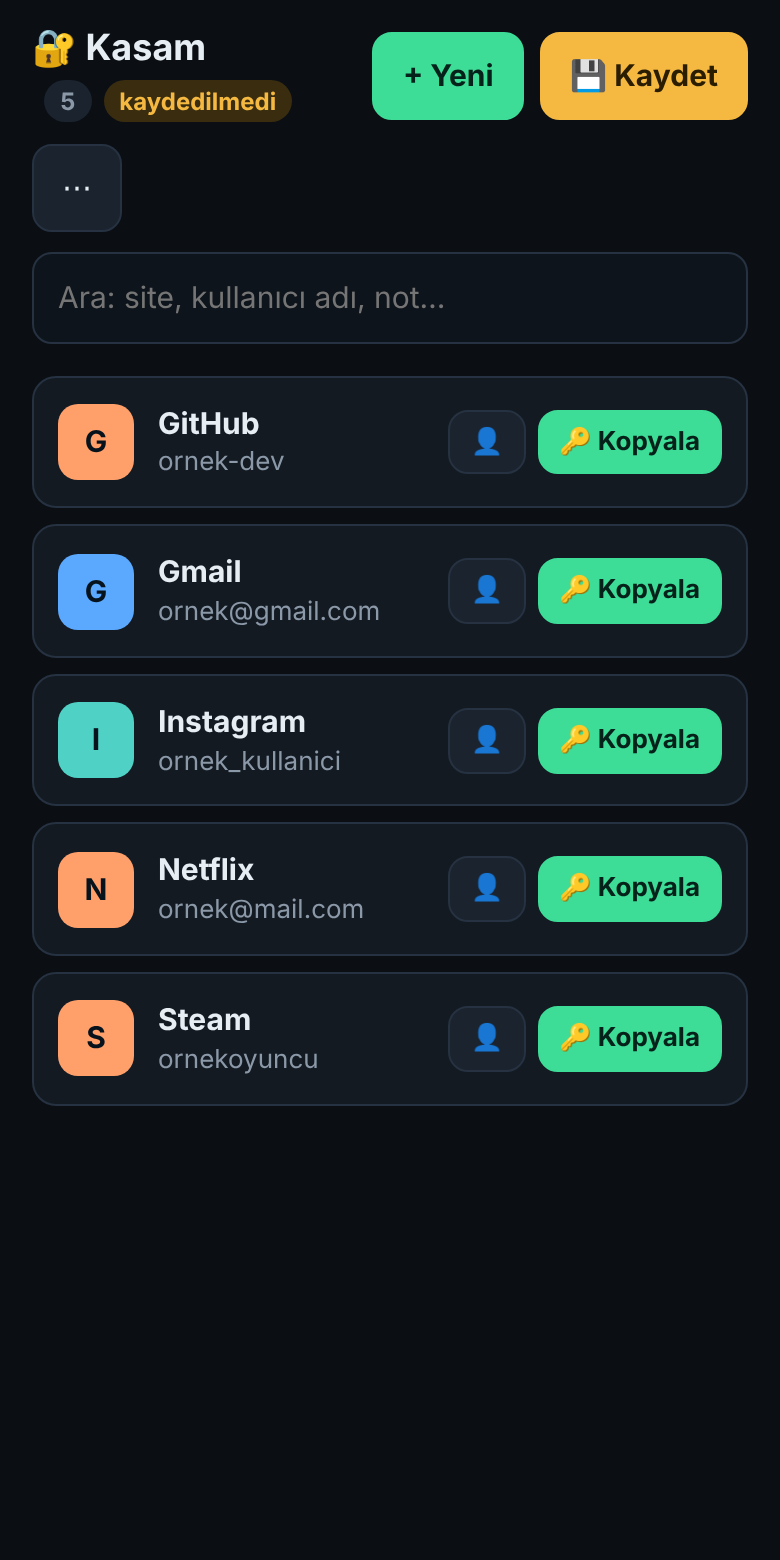
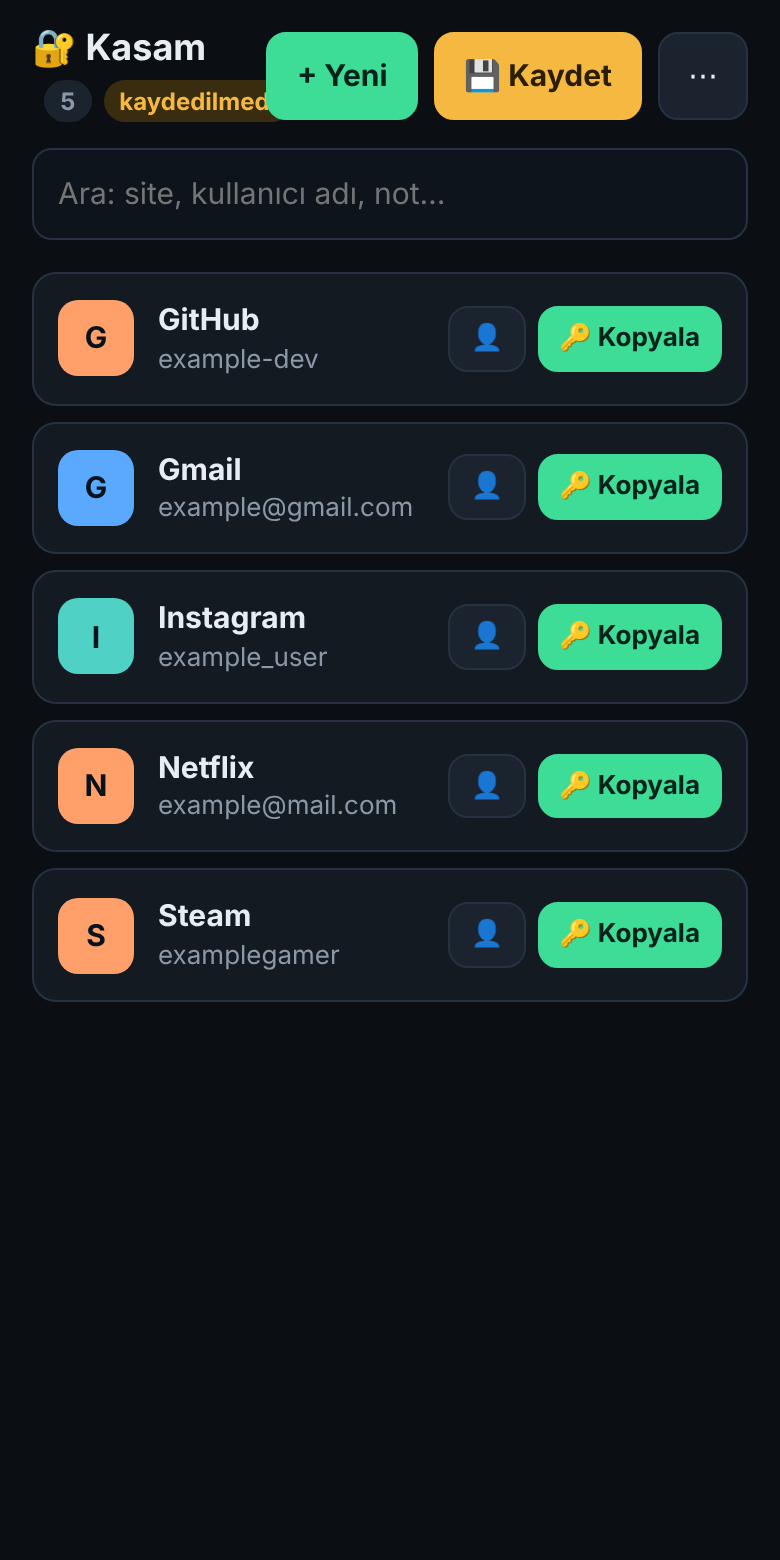
İngilizce arayüz ve İngilizce README eklendi
- 🌐 butonuyla Türkçe / İngilizce dil seçimi (tarayıcı diline göre otomatik)
- README.en.md ve İngilizce ekran görüntüleri

Claude-Session: https://claude.ai/code/session_01RupFFbVWnVjNTGQY59fm1t

diff --git a/index.html b/index.html
@@ -60,7 +60,7 @@ details summary{cursor:pointer;color:var(--muted);font-size:13px;margin-top:12px
 /* Kasa ekranı */
 header.top{position:sticky;top:env(safe-area-inset-top, 0px);z-index:5;background:var(--bg);padding:12px 0 10px}
 .topbar{display:flex;align-items:center;gap:8px;flex-wrap:wrap}
-.topbar h2{font-size:18px;margin:0;flex:1;min-width:120px}
+.topbar h2{font-size:18px;margin:0;flex:1;min-width:0}
 .badge{font-size:12px;padding:3px 8px;border-radius:99px;background:var(--panel2);color:var(--muted);margin-left:6px;vertical-align:middle}
 .badge.dirty{background:#3a2d0f;color:var(--warn)}
 #saveBtn.dirty{background:var(--warn);color:#2a1d00;border-color:var(--warn);font-weight:650}
@@ -73,6 +73,7 @@ header.top{position:sticky;top:env(safe-area-inset-top, 0px);z-index:5;backgroun
 .meta span{display:block;color:var(--muted);font-size:13px;white-space:nowrap;overflow:hidden;text-overflow:ellipsis}
 .acts{display:flex;gap:6px;flex:none}
 .empty{text-align:center;color:var(--muted);padding:40px 10px}
+.langBtn{white-space:nowrap;flex:none}
 .menu{position:relative}
 .menu .dd{position:absolute;right:0;top:calc(100% + 6px);background:var(--panel);border:1px solid var(--line);border-radius:12px;padding:6px;min-width:230px;box-shadow:0 10px 30px #0008;z-index:10}
 .menu .dd button{display:block;width:100%;text-align:left;border:0;background:transparent;padding:10px 12px}
@@ -101,7 +102,7 @@ header.top{position:sticky;top:env(safe-area-inset-top, 0px);z-index:5;backgroun
 
   <!-- ============ KİLİT EKRANI ============ -->
   <section id="lock" class="card">
-    <div class="logo"><div class="ic">🔐</div><div><h1>Şifre Kasası</h1><div class="muted small">AES-256 · cihazında şifrelenir</div></div></div>
+    <div class="logo"><div class="ic">🔐</div><div><h1>Şifre Kasası</h1><div class="muted small">AES-256 · cihazında şifrelenir</div></div><button class="small ghost langBtn" style="margin-left:auto">🌐 English</button></div>
 
     <div class="tabs">
       <button id="tabOpen" class="on">Kasayı aç</button>
@@ -127,7 +128,7 @@ header.top{position:sticky;top:env(safe-area-inset-top, 0px);z-index:5;backgroun
       <div class="strength"><i id="newStr"></i></div>
       <label>Ana şifre (tekrar)</label>
       <input id="newPw2" type="password" autocomplete="new-password">
-      <div class="notice">⚠ Ana şifreni unutursan kasayı açmanın <b>hiçbir yolu yoktur</b>. Kâğıda yazıp güvenli bir yerde sakla.</div>
+      <div class="notice">⚠ Ana şifreni unutursan kasayı açmanın hiçbir yolu yoktur. Kâğıda yazıp güvenli bir yerde sakla.</div>
       <button id="createBtn" class="primary full">Kasayı oluştur</button>
     </div>
 
@@ -152,6 +153,7 @@ header.top{position:sticky;top:env(safe-area-inset-top, 0px);z-index:5;backgroun
             <button data-act="csv">📥 CSV içe aktar (Chrome vb.)</button>
             <button data-act="copyblob">📋 Şifreli metni kopyala</button>
             <button data-act="chpw">🔑 Ana şifreyi değiştir</button>
+            <button class="langBtn">🌐 English</button>
             <button data-act="lock">🔒 Kilitle</button>
           </div>
         </div>
@@ -345,8 +347,8 @@ function render(){
   $('#list').innerHTML=items.map(e=>{
     const t=e.title||e.url||'(başlıksız)';
     return `<div class="item" data-id="${esc(e.id)}">
-      <div class="av" style="background:${colorFor(t)}">${esc(t.trim()[0]?.toLocaleUpperCase('tr')||'?')}</div>
-      <div class="meta" data-act="edit"><b>${esc(t)}</b><span>${esc(e.user||e.url||'')}</span></div>
+      <div class="av" data-raw style="background:${colorFor(t)}">${esc(t.trim()[0]?.toLocaleUpperCase('tr')||'?')}</div>
+      <div class="meta" data-act="edit" data-raw><b>${esc(t)}</b><span>${esc(e.user||e.url||'')}</span></div>
       <div class="acts">
         ${e.user?'<button class="small" data-act="cu" title="Kullanıcı adını kopyala">👤</button>':''}
         <button class="small primary" data-act="cp" title="Şifreyi kopyala">🔑 Kopyala</button>
@@ -469,6 +471,87 @@ function resetTimer(){ clearTimeout(idleT); if(S.key) idleT=setTimeout(()=>lock(
 addEventListener('beforeunload',e=>{ if(S.dirty||S.pending){ e.preventDefault(); e.returnValue=''; } });
 
 if(!window.crypto?.subtle){ $('#lockErr').textContent='Bu tarayıcı güvenli şifrelemeyi desteklemiyor. Sayfayı https adresinden ya da güncel Chrome/Safari ile aç.'; }
+
+/* ---------- dil (TR / EN) ---------- */
+const I18N = [
+  ['Şifre Kasası','Password Vault'],
+  ['AES-256 · cihazında şifrelenir','AES-256 · encrypted on your device'],
+  ['Kasayı aç','Open vault'],['Yeni kasa','New vault'],
+  ['Kasa dosyası','Vault file'],['📁 Dosya seç (kasa.json)','📁 Choose file (kasa.json)'],
+  ['Dosya yerine şifreli metni yapıştır','Paste encrypted text instead of a file'],
+  ['Ana şifre','Master password'],['Ana şifren','Your master password'],['Kilidi aç','Unlock'],
+  ['Ana şifre belirle','Set a master password'],['En az 10 karakter, uzun bir cümle olabilir','At least 10 characters, a long sentence works well'],
+  ['Ana şifre (tekrar)','Master password (again)'],
+  ['⚠ Ana şifreni unutursan kasayı açmanın hiçbir yolu yoktur. Kâğıda yazıp güvenli bir yerde sakla.','⚠ If you forget your master password, there is no way to open the vault. Write it down and keep it somewhere safe.'],
+  ['Kasayı oluştur','Create vault'],
+  ['Kasa kaydedilmemiş değişikliklerle kilitlendi. Değişiklikler şifreli olarak bekliyor.','The vault was locked with unsaved changes. They are kept encrypted for now.'],
+  ['Şifreli dosyayı indir','Download encrypted file'],['Yok say','Discard'],
+  ['🔐 Kasam','🔐 My vault'],['kaydedilmedi','unsaved'],['+ Yeni','+ New'],['💾 Kaydet','💾 Save'],
+  ['📥 CSV içe aktar (Chrome vb.)','📥 Import CSV (Chrome etc.)'],['📋 Şifreli metni kopyala','📋 Copy encrypted text'],
+  ['🔑 Ana şifreyi değiştir','🔑 Change master password'],['🔒 Kilitle','🔒 Lock'],
+  ['Ara: site, kullanıcı adı, not…','Search: site, username, note…'],
+  ['Yeni kayıt','New entry'],['Kaydı düzenle','Edit entry'],['Başlık','Title'],['ör. Gmail, Instagram','e.g. Gmail, Instagram'],
+  ['Web adresi','Website'],['ör. instagram.com','e.g. instagram.com'],['Kullanıcı adı / e-posta','Username / email'],
+  ['Kopyala','Copy'],['Şifre','Password'],['Uzunluk','Length'],['Semboller','Symbols'],['🎲 Üret','🎲 Generate'],
+  ['Not','Note'],['Güvenlik soruları, PIN, kurtarma kodları…','Security questions, PIN, recovery codes…'],
+  ['Sil','Delete'],['Vazgeç','Cancel'],['Tamam','Done'],
+  ['Ana şifreyi değiştir','Change master password'],['Yeni ana şifre','New master password'],['Tekrar','Again'],['Değiştir','Change'],
+  ['Emin misin?','Are you sure?'],['Evet','Yes'],
+  ['Bu bir kasa dosyası değil.','This is not a vault file.'],['Ana şifre yanlış ya da dosya bozuk.','Wrong master password or damaged file.'],
+  ['Kopyalandı · 30 sn sonra pano temizlenecek','Copied · clipboard clears in 30 s'],
+  ['Önce kasa dosyasını seç.','Choose the vault file first.'],['Ana şifreyi gir.','Enter the master password.'],
+  ['Ana şifre en az 10 karakter olmalı.','The master password must be at least 10 characters.'],
+  ['İki şifre aynı değil.','The two passwords do not match.'],['En az 10 karakter olmalı.','Must be at least 10 characters.'],
+  ['Kasa oluşturuldu. Kayıt ekleyip 💾 Kaydet’e bas.','Vault created. Add entries, then press 💾 Save.'],
+  ['İşlem yapılmadığı için kasa kilitlendi.','The vault was locked after a period of inactivity.'],
+  ['Açılıyor…','Opening…'],['Oluşturuluyor…','Creating…'],['Değiştiriliyor…','Changing…'],
+  ['Kaydedilmemiş değişiklikler silinsin mi?','Discard unsaved changes?'],
+  ['Eşleşen kayıt yok.','No matching entries.'],['Kasa boş.','The vault is empty.'],
+  ['“+ Yeni” ile ilk şifreni ekle ya da ⋯ menüsünden CSV içe aktar.','Add your first password with “+ New” or import a CSV from the ⋯ menu.'],
+  ['(başlıksız)','(untitled)'],['Kullanıcı adını kopyala','Copy username'],['Şifreyi kopyala','Copy password'],['🔑 Kopyala','🔑 Copy'],
+  ['Bir başlık ya da web adresi gir.','Enter a title or website.'],
+  ['Kaydedildi · dosyaya yazmak için 💾 Kaydet','Saved · press 💾 Save to write the file'],
+  ['Kaydetme iptal edildi.','Save cancelled.'],['Dosya kaydedilemedi. ⋯ menüsünden şifreli metni kopyala.','Could not save the file. Copy the encrypted text from the ⋯ menu.'],
+  ['Şifreli metin kopyalandı (ana şifre olmadan okunamaz).','Encrypted text copied (unreadable without the master password).'],
+  ['Kopyalanamadı.','Could not copy.'],
+  ['Ana şifre değişti. Şimdi 💾 Kaydet ve Drive’a yükle.','Master password changed. Now press 💾 Save and upload to Drive.'],
+  ['CSV boş görünüyor.','The CSV looks empty.'],['CSV’de “password” sütunu bulunamadı.','No “password” column found in the CSV.'],
+  ['Bu tarayıcı güvenli şifrelemeyi desteklemiyor. Sayfayı https adresinden ya da güncel Chrome/Safari ile aç.','This browser does not support secure encryption. Open the page over https or in an up-to-date Chrome/Safari.'],
+];
+const I18N_RX = [
+  [/^“(.*)” silinsin mi\?$/, '“$1” will be deleted. Continue?', /^“(.*)” will be deleted\. Continue\?$/, '“$1” silinsin mi?'],
+  [/^“(.*)” kaydedildi\. Drive’daki eski dosyanın yerine yükle\.$/, '“$1” saved. Upload it over the old file on Drive.', /^“(.*)” saved\. Upload it over the old file on Drive\.$/, '“$1” kaydedildi. Drive’daki eski dosyanın yerine yükle.'],
+  [/^“(.*)” indirildi\. Drive’daki eski dosyanın yerine yükle\.$/, '“$1” downloaded. Upload it over the old file on Drive.', /^“(.*)” downloaded\. Upload it over the old file on Drive\.$/, '“$1” indirildi. Drive’daki eski dosyanın yerine yükle.'],
+  [/^(\d+) kayıt içe aktarıldı\. 💾 Kaydet’i unutma, sonra CSV dosyasını sil!$/, '$1 entries imported. Don’t forget 💾 Save, then delete the CSV file!', /^(\d+) entries imported\. Don’t forget 💾 Save, then delete the CSV file!$/, '$1 kayıt içe aktarıldı. 💾 Kaydet’i unutma, sonra CSV dosyasını sil!'],
+];
+const TR2EN = new Map(I18N), EN2TR = new Map(I18N.map(([a,b])=>[b,a]));
+let LANG = 'tr';
+try{ LANG = localStorage.getItem('sk-lang') || (/^tr\b/i.test(navigator.language||'tr') ? 'tr' : 'en'); }catch(_){ LANG = /^tr\b/i.test(navigator.language||'tr') ? 'tr' : 'en'; }
+function tr(s){
+  const k=s.trim(); if(!k) return s;
+  const map = LANG==='en' ? TR2EN : EN2TR;
+  let out = map.get(k);
+  if(out===undefined){ for(const [rt,et,re,ee] of I18N_RX){ const [rx,rep] = LANG==='en' ? [rt,et] : [re,ee]; if(rx.test(k)){ out=k.replace(rx,rep); break; } } }
+  if(out===undefined) return s;
+  return s.slice(0, s.indexOf(k)) + out + s.slice(s.indexOf(k)+k.length);
+}
+function i18nNode(root){
+  if(root.nodeType===3){ const p=root.parentElement; if(p && !p.closest('[data-raw],script,style,textarea')){ const v=tr(root.nodeValue); if(v!==root.nodeValue) root.nodeValue=v; } return; }
+  if(root.nodeType!==1 || root.closest?.('[data-raw]')) return;
+  const els=[root,...root.querySelectorAll('[placeholder],[title]')];
+  for(const el of els){ for(const a of ['placeholder','title']){ const v=el.getAttribute(a); if(v){ const n=tr(v); if(n!==v) el.setAttribute(a,n); } } }
+  const w=document.createTreeWalker(root,NodeFilter.SHOW_TEXT); let n; const list=[]; while((n=w.nextNode())) list.push(n); list.forEach(i18nNode);
+}
+function applyLang(){
+  document.documentElement.lang = LANG;
+  document.title = LANG==='en' ? 'Password Vault' : 'Şifre Kasası';
+  i18nNode(document.body);
+  document.querySelectorAll('.langBtn').forEach(b=>b.textContent = LANG==='en' ? '🌐 Türkçe' : '🌐 English');
+}
+function setLang(l){ LANG=l; try{ localStorage.setItem('sk-lang',l); }catch(_){} applyLang(); }
+new MutationObserver(ms=>{ for(const m of ms) m.addedNodes.forEach(i18nNode); }).observe(document.body,{childList:true,subtree:true});
+document.querySelectorAll('.langBtn').forEach(b=>b.addEventListener('click',e=>{ e.stopPropagation(); show($('#menuDd'),0); setLang(LANG==='en'?'tr':'en'); }));
+applyLang();
 </script>
 
 </body>

diff --git a/README.en.md b/README.en.md
@@ -1,0 +1,78 @@
+# 🔐 Password Vault (Şifre Kasası)
+
+**[Türkçe](README.md) · English**
+
+A single-file, zero-install password vault that runs in your browser.
+Your passwords are **encrypted on your device with AES-256-GCM** and live only in an encrypted `kasa.json` file that you keep yourself. No server, no account, no tracking.
+
+**Try it:** https://wolkansezer.github.io/sifre-kasasi/
+
+<p align="center">
+  <img src="docs/lock-en.png" width="280" alt="Lock screen">
+  &nbsp;&nbsp;
+  <img src="docs/vault-en.png" width="280" alt="Vault screen (sample data)">
+</p>
+
+<sub>The entries in the screenshots are examples.</sub>
+
+## Why?
+
+Ready-made password managers are great, but sometimes you want full control: knowing exactly where your data lives, being able to read all the code in one file, and keeping your vault on whatever storage you like (Google Drive, iCloud, a USB stick). Password Vault was built for that.
+
+## Features
+
+- **End-to-end encryption**: AES-256-GCM, with the key derived from your master password using PBKDF2-SHA256 at **600,000 iterations**
+- **Fully local**: Encryption and decryption happen on your device through the browser's Web Crypto API; the page cannot connect anywhere (CSP `connect-src 'none'`)
+- **Single file**: HTML, CSS and JavaScript in one `index.html`, no external libraries
+- **Strong password generator** with length and symbol options and a strength meter
+- **One-tap copy**: The clipboard is cleared automatically after 30 seconds
+- **Auto-lock** after 5 minutes of inactivity
+- **Search** across titles, websites, usernames and notes
+- **CSV import** from Chrome, Edge, Bitwarden and other exports
+- **Change master password**
+- **Mobile friendly**: Add it to the home screen on iPhone and Android
+- **Turkish and English interface** (switch with the 🌐 button), dark theme
+
+## Usage
+
+### Online
+Open **https://wolkansezer.github.io/sifre-kasasi/**
+
+### Offline
+Download `index.html` and open it in your browser. No internet needed.
+
+### First setup
+1. On the **New vault** tab, set your master password.
+2. Add your entries and press **💾 Save**; `kasa.json` is downloaded.
+3. Put this file on Google Drive, iCloud Drive or wherever you like.
+
+### Next time
+**Open vault** → choose `kasa.json` → enter your master password. After making changes, save and overwrite the old file.
+
+### Syncing between phone and computer
+Syncing works through the file: open and save the same `kasa.json` on Drive from both devices. On a computer with *Google Drive for Desktop*, saving into the Drive folder is enough. Don't edit on two devices at the same time; the last saved file wins.
+
+## Security
+
+| | |
+|---|---|
+| Encryption | AES-256-GCM (new 96-bit IV on every save) |
+| Key derivation | PBKDF2-HMAC-SHA256, 600,000 iterations, 128-bit random salt |
+| Randomness | `crypto.getRandomValues` |
+| Network access | None (blocked by Content-Security-Policy) |
+| Storage | Only the user's own `kasa.json` file |
+
+Vault file format:
+
+```json
+{ "app": "sifre-kasasi", "v": 1, "kdf": "PBKDF2-SHA256", "iter": 600000,
+  "salt": "…", "iv": "…", "ct": "…" }
+```
+
+> ⚠ **If you forget your master password, there is no way to open the vault.** Write it down, keep it somewhere safe, and keep backups of your vault file.
+
+> ℹ This project was built for personal use and has not been independently security audited. For critical use, also consider audited solutions such as Bitwarden or KeePassXC.
+
+## License
+
+[MIT](LICENSE)

diff --git a/README.md b/README.md
@@ -1,7 +1,11 @@
 # 🔐 Şifre Kasası
 
+**Türkçe · [English](README.en.md)**
+
 Tarayıcıda çalışan, tek dosyalık, kurulum gerektirmeyen kişisel şifre kasası.
 Şifreler **cihazında AES-256-GCM ile şifrelenir** ve sadece senin sakladığın şifreli bir `kasa.json` dosyasında durur. Sunucu yok, hesap yok, takip yok.
+
+**Hemen dene:** https://wolkansezer.github.io/sifre-kasasi/
 
 <p align="center">
   <img src="docs/kilit.png" width="280" alt="Kilit ekranı">
@@ -27,7 +31,7 @@ Hazır şifre yöneticileri harika ama bazen tam kontrol istersin: verinin nered
 - **CSV içe aktarma**: Chrome, Edge, Bitwarden vb. dışa aktarımlarından
 - **Ana şifre değiştirme**
 - **Mobil uyumlu**: iPhone ve Android'de ana ekrana eklenebilir
-- **Türkçe arayüz**, koyu tema
+- **Türkçe ve İngilizce arayüz** (🌐 butonuyla değiştirilir), koyu tema
 
 ## Kullanım
 
@@ -68,10 +72,6 @@ Kasa dosyasının biçimi:
 > ⚠ **Ana şifreni unutursan kasayı açmanın hiçbir yolu yoktur.** Kâğıda yazıp güvenli bir yerde sakla ve kasa dosyanın yedeğini tut.
 
 > ℹ Bu proje kişisel kullanım için geliştirilmiştir ve bağımsız bir güvenlik denetiminden geçmemiştir. Kritik kullanımlar için Bitwarden ya da KeePassXC gibi denetlenmiş çözümleri de değerlendir.
-
-## English
-
-**Şifre Kasası** ("Password Vault") is a single-file, zero-install, browser-based password vault. Entries are encrypted on-device with AES-256-GCM (key derived via PBKDF2-SHA256, 600k iterations) and stored only in your own encrypted `kasa.json` file, which you can keep on Google Drive, iCloud or anywhere else. No server, no account, no network access. UI is in Turkish.
 
 ## Lisans
 
